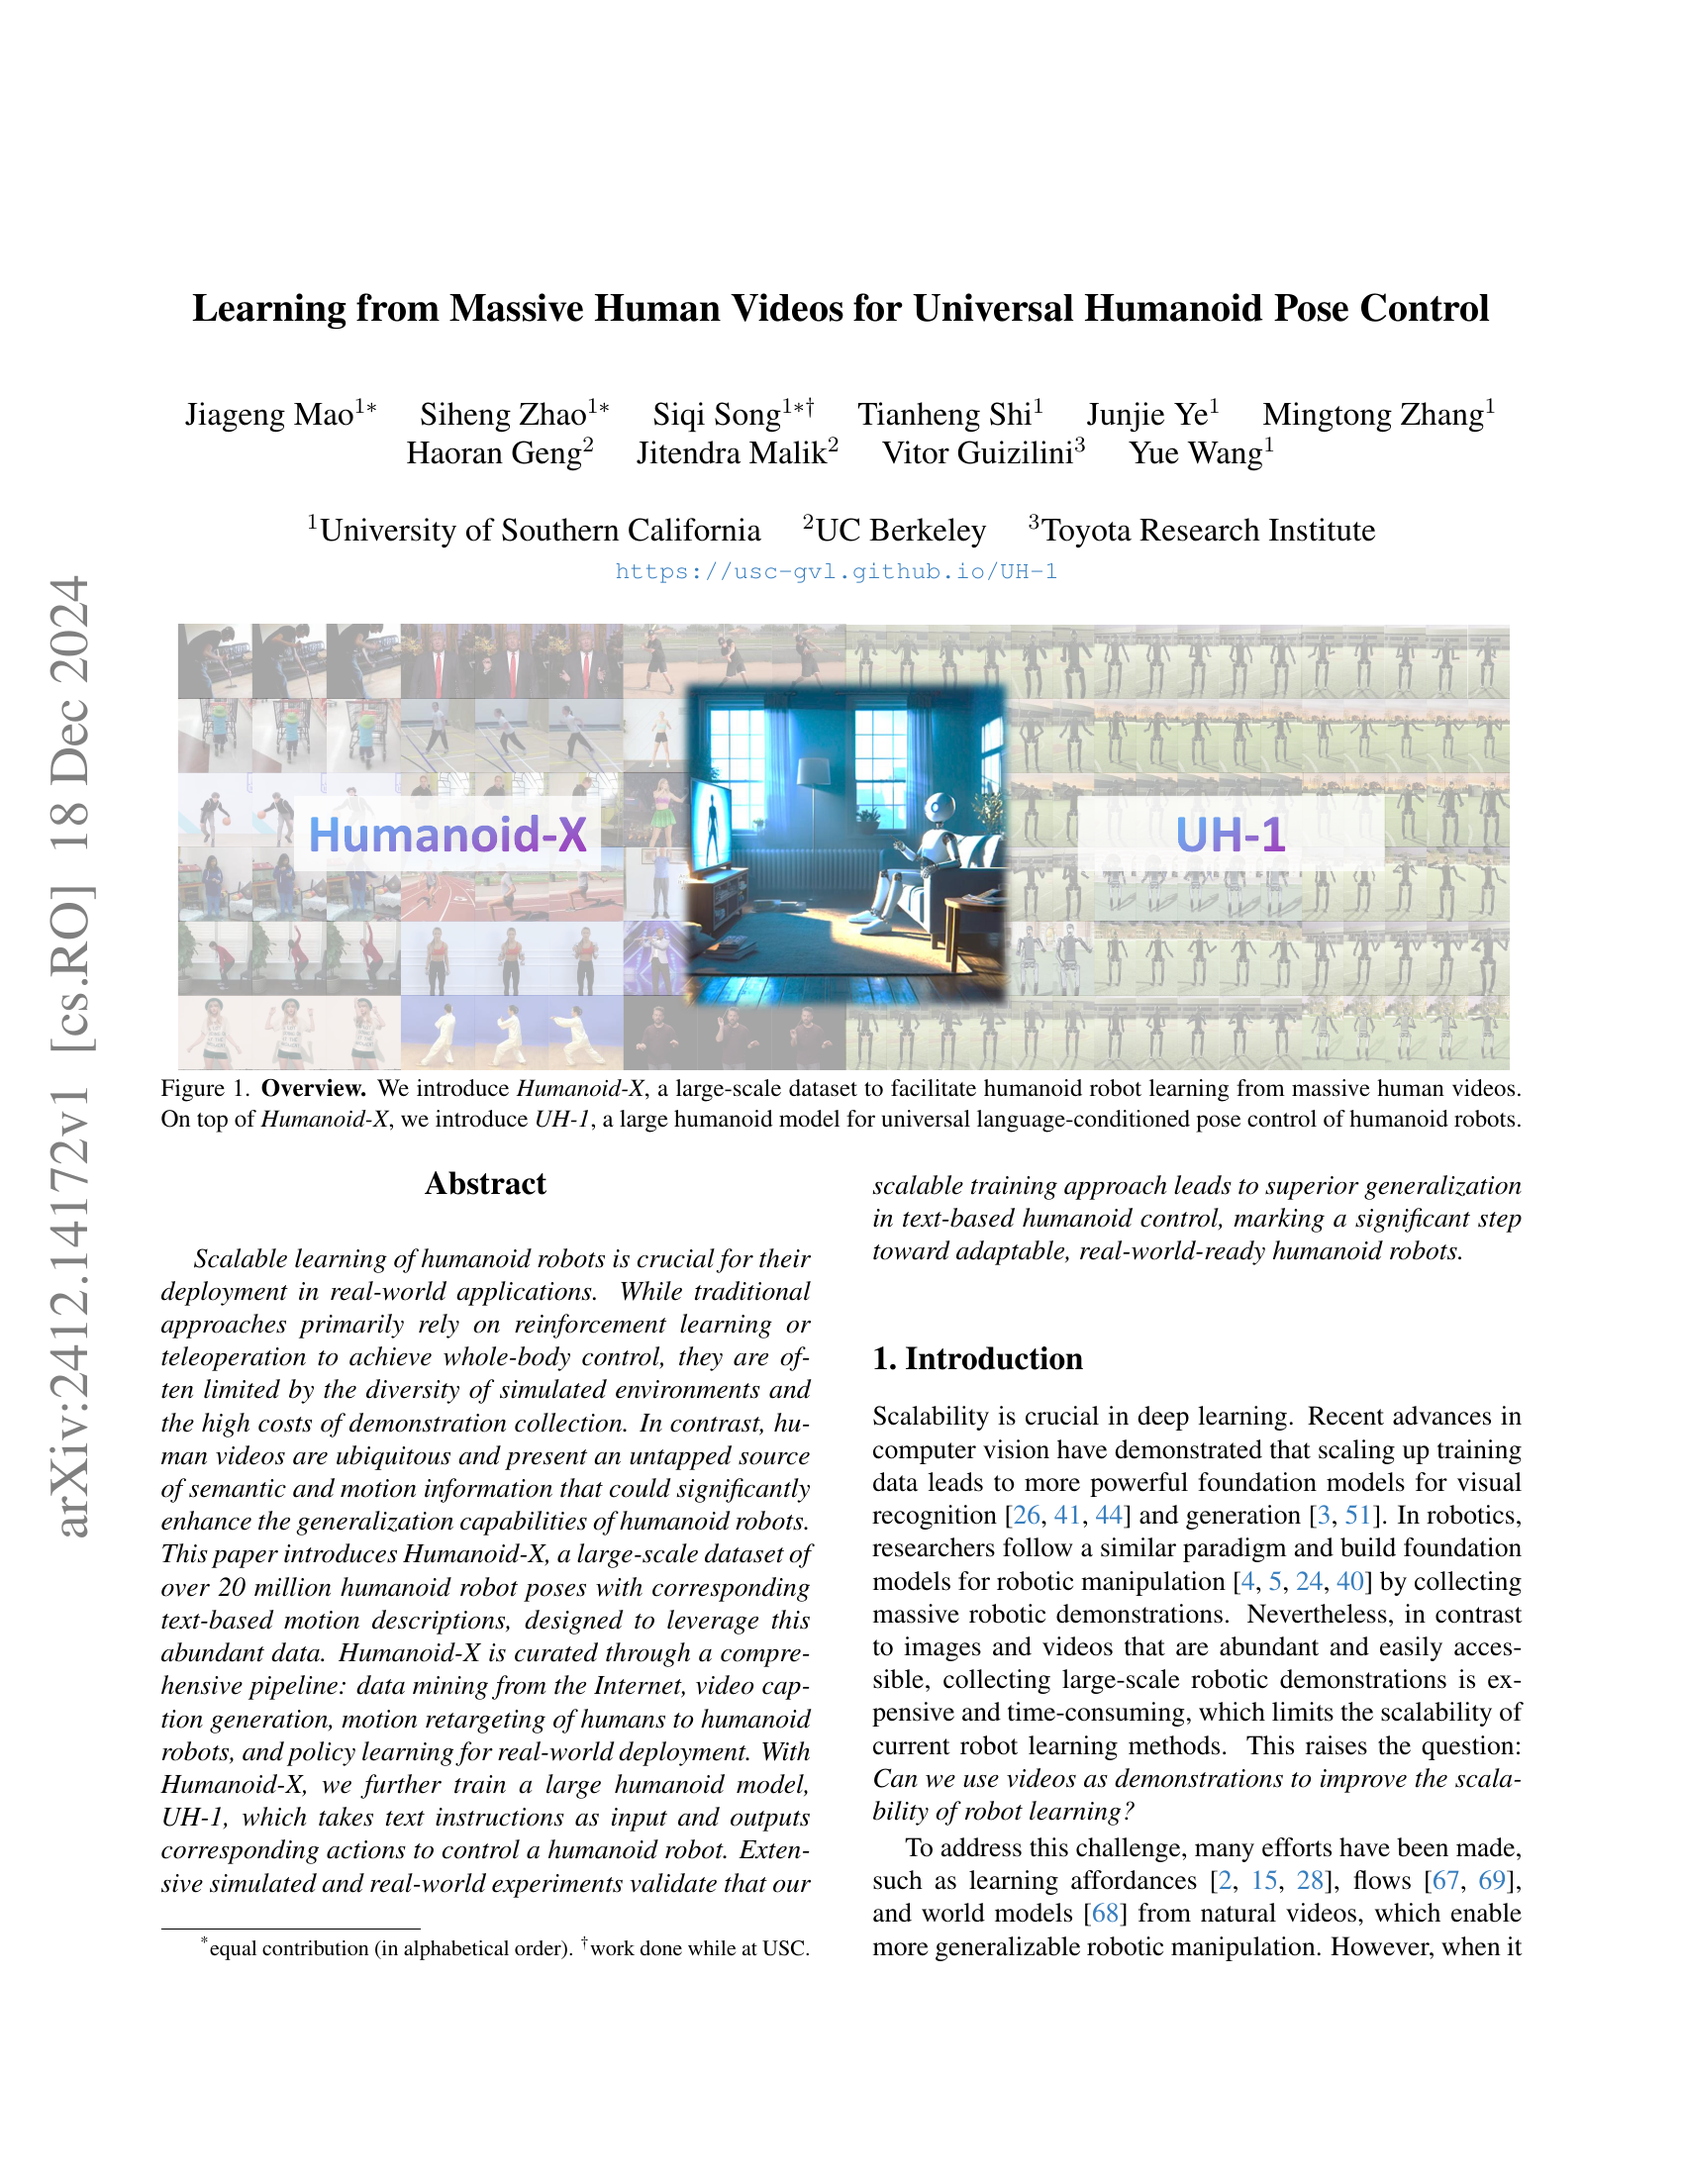
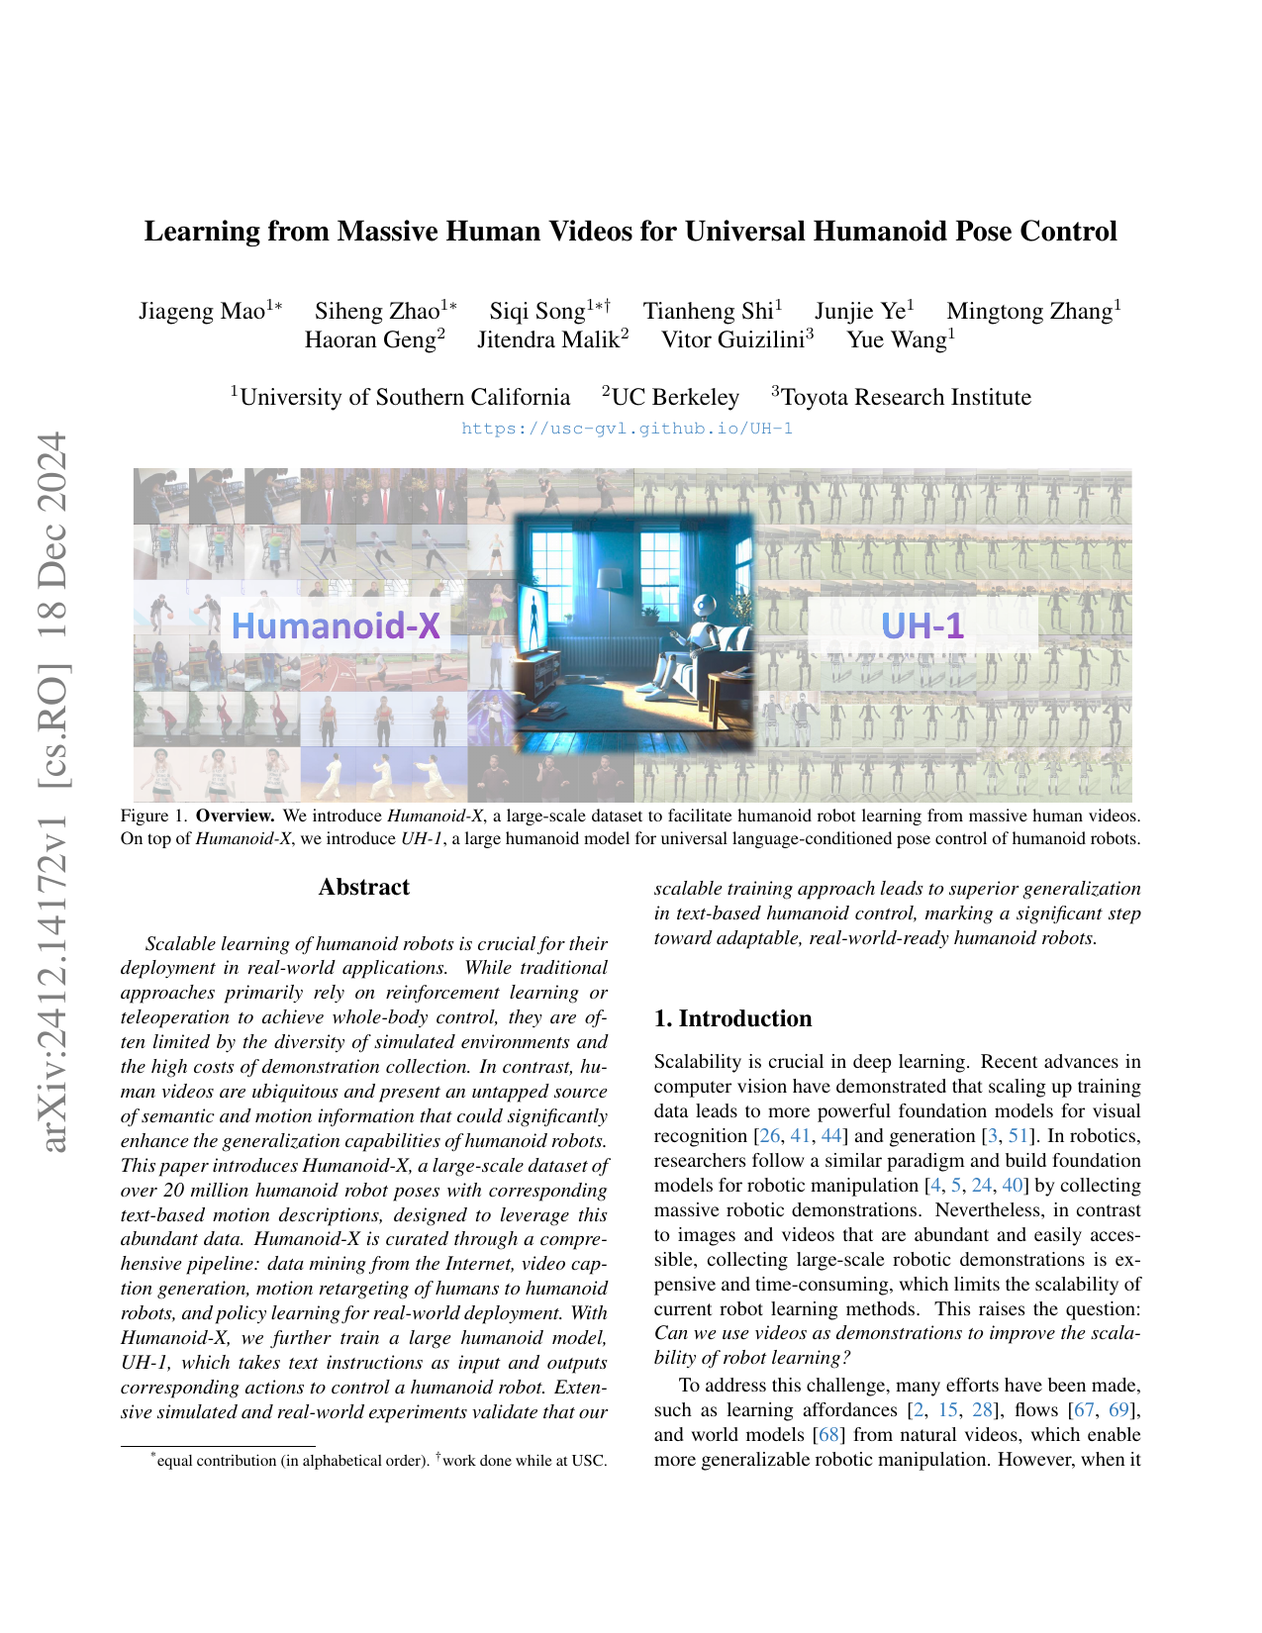
1219_text abstract

diff --git a/1219_text.py b/1219_text.py
@@ -5,14 +5,17 @@ import os
 # Tesseract 경로 설정
 pytesseract.pytesseract.tesseract_cmd = "/opt/homebrew/bin/tesseract"
 
-def pdf_to_text(file_path, output_folder="images", lang="eng"):
+def pdf_to_text(file_path, output_folder="images", lang="eng", start_page=1, end_page=2, dpi=150):
     """
     PDF 파일에서 텍스트를 추출.
-    
+
     Args:
         file_path (str): PDF 파일 경로.
         output_folder (str): 페이지 이미지를 저장할 폴더.
         lang (str): Tesseract 언어 설정 (기본값은 영어).
+        start_page (int): 처리할 시작 페이지.
+        end_page (int): 처리할 마지막 페이지.
+        dpi (int): 이미지 해상도 설정.
     Returns:
         str: PDF에서 추출된 전체 텍스트.
     """
@@ -21,7 +24,7 @@ def pdf_to_text(file_path, output_folder="images", lang="eng"):
         raise FileNotFoundError(f"PDF 파일을 찾을 수 없습니다: {file_path}")
     
     # PDF를 이미지로 변환
-    images = convert_from_path(file_path)
+    images = convert_from_path(file_path, dpi=dpi, first_page=start_page, last_page=end_page)
     os.makedirs(output_folder, exist_ok=True)
 
     full_text = ""
@@ -30,45 +33,75 @@ def pdf_to_text(file_path, output_folder="images", lang="eng"):
         image.save(image_path, "PNG")  # 이미지를 PNG로 저장
 
         # OCR 수행
-        text = pytesseract.image_to_string(image, lang=lang)
+        text = pytesseract.image_to_string(image, lang=lang, config="--psm 3")  # 기본 PSM 설정
         full_text += text + "\n"
 
     return full_text
 
+def extract_section_from_text(text, section_name):
+    """
+    텍스트에서 특정 섹션(예: Abstract, Conclusion) 부분을 추출.
+
+    Args:
+        text (str): PDF에서 추출된 전체 텍스트.
+        section_name (str): 탐색할 섹션 이름 (예: 'abstract', 'conclusion').
+    Returns:
+        str: 섹션 부분의 텍스트.
+    """
+    # 텍스트를 소문자로 변환하여 섹션 탐지
+    text_lower = text.lower()
+    section_start = text_lower.find(section_name.lower())
+    if section_start == -1:
+        return f"{section_name} 섹션을 찾을 수 없습니다."
+
+    # 섹션 이후 텍스트 가져오기
+    section_text = text[section_start:]
+    section_excerpt = "\n".join(section_text.split("\n")[:10])  # 상위 10줄만 추출
+    return section_excerpt
+
 def extract_conclusion_from_text(text):
     """
-    텍스트에서 '결론' 부분을 추출.
+    텍스트에서 '결론' 섹션을 추출.
     
     Args:
         text (str): PDF에서 추출된 전체 텍스트.
     Returns:
-        str: '결론' 부분의 텍스트.
+        str: '결론' 섹션의 텍스트.
     """
-    # 텍스트를 소문자로 변환하여 '결론' 탐지
-    text_lower = text.lower()
-    conclusion_start = text_lower.find("conclusion")
-    if conclusion_start == -1:
-        return "결론 섹션을 찾을 수 없습니다."
+    # 탐색할 결론 관련 키워드 목록
+    keywords = ["conclusion", "summary", "discussion", "future work"]
 
-    # '결론' 이후 텍스트 가져오기
-    conclusion_text = text[conclusion_start:]
-    conclusion_excerpt = "\n".join(conclusion_text.split("\n")[:10])  # 상위 10줄만 추출
-    return conclusion_excerpt
+    # 텍스트를 소문자로 변환하여 탐색
+    text_lower = text.lower()
+    for keyword in keywords:
+        section_start = text_lower.find(keyword)
+        if section_start != -1:
+            # 섹션 이후 텍스트 가져오기
+            section_text = text[section_start:]
+            section_excerpt = "\n".join(section_text.split("\n")[:10])  # 상위 10줄만 추출
+            return section_excerpt
+
+    return "결론 섹션을 찾을 수 없습니다."
 
 # 경로 설정
-pdf_file = "/Users/juni/Desktop/python_KDT/downloads/example.pdf"  # PDF 파일 경로 수정
-output_folder = "/Users/juni/Desktop/python_KDT/downloads/images"  # 이미지 저장 폴더 수정
+pdf_file = "/Users/juni/Desktop/python_KDT/downloads/example.pdf"
+output_folder = "/Users/juni/Desktop/python_KDT/downloads/images"
 
 # PDF에서 텍스트 추출
 try:
     print("PDF에서 텍스트 추출 중...")
-    text = pdf_to_text(pdf_file, output_folder=output_folder, lang="eng")
-    print("추출된 텍스트:")
-    print(text[:500])  # 일부 텍스트 출력
 
-    # 결론 부분 추출
+    # Abstract와 Conclusion 섹션이 첫 두 페이지에 있다고 가정
+    text = pdf_to_text(pdf_file, output_folder=output_folder, lang="eng", start_page=1, end_page=2)
+
+    # Abstract 부분 추출
+    abstract = extract_section_from_text(text, "abstract")
+    print("\nAbstract 부분:")
+    print(abstract)
+
+    # Conclusion 부분 추출
     conclusion = extract_conclusion_from_text(text)
-    print("\n결론 부분:")
+    print("\nConclusion 부분:")
     print(conclusion)
 
 except Exception as e:
